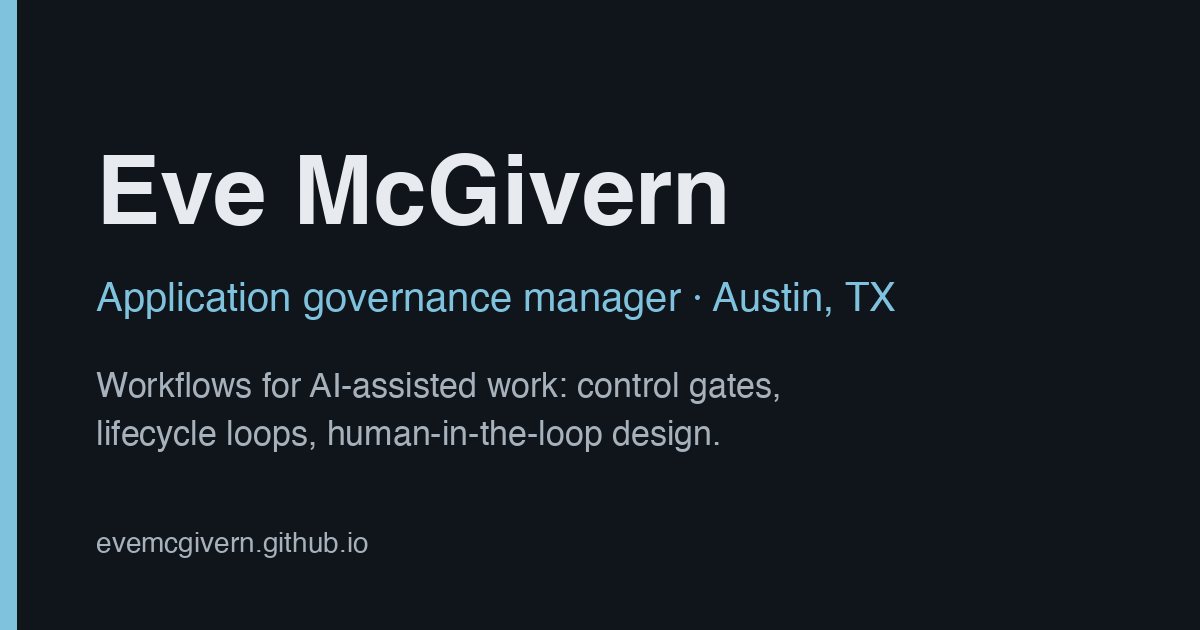
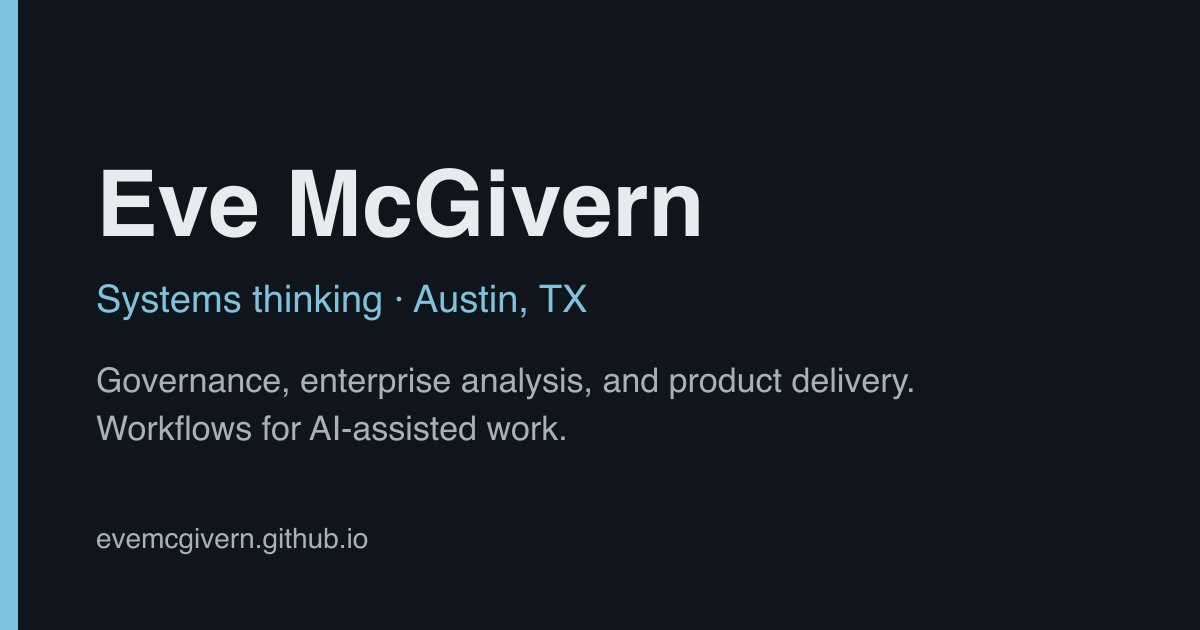
feat(site): broaden profile from LinkedIn
Widen the headline and bio beyond application governance. Add a
What I do section, a LinkedIn link, and updated metadata, llms.txt,
and social image.

Fixes #15

Claude-Session: https://claude.ai/code/session_01XjzbFX8BVBbwU7jJMPUWj5

diff --git a/index.html b/index.html
@@ -3,8 +3,8 @@
 <head>
 <meta charset="utf-8">
 <meta name="viewport" content="width=device-width, initial-scale=1">
-<title>Eve McGivern · Application Governance Manager</title>
-<meta name="description" content="Eve McGivern — application governance manager. Workflows for AI-assisted work: control gates, lifecycle loops, human-in-the-loop design.">
+<title>Eve McGivern · Systems Thinker in Governance, Analysis, and Product</title>
+<meta name="description" content="Eve McGivern: systems thinker with 19 years in regulated financial services and gaming. Application governance, enterprise analysis, product delivery, and AI-assisted workflow design.">
 <meta name="author" content="Eve McGivern">
 <link rel="icon" href="/icon.svg" type="image/svg+xml">
 <link rel="apple-touch-icon" href="/apple-touch-icon.png">
@@ -12,20 +12,20 @@
 <meta property="og:type" content="profile">
 <meta property="og:site_name" content="Eve McGivern">
 <meta property="og:url" content="https://evemcgivern.github.io/">
-<meta property="og:title" content="Eve McGivern · Application Governance Manager">
-<meta property="og:description" content="Workflows for AI-assisted work: control gates, lifecycle loops, human-in-the-loop design.">
+<meta property="og:title" content="Eve McGivern · Systems Thinker in Governance, Analysis, and Product">
+<meta property="og:description" content="Systems thinking across governance, enterprise analysis, and product delivery. Workflows for AI-assisted work.">
 <meta property="og:image" content="https://evemcgivern.github.io/og-image.png">
 <meta property="og:image:width" content="1200">
 <meta property="og:image:height" content="630">
-<meta property="og:image:alt" content="Eve McGivern, application governance manager, Austin, TX. Workflows for AI-assisted work: control gates, lifecycle loops, human-in-the-loop design.">
+<meta property="og:image:alt" content="Eve McGivern, systems thinker, Austin, TX. Governance, enterprise analysis, product delivery, and AI-assisted workflow design.">
 <meta property="og:locale" content="en_US">
 <meta property="profile:first_name" content="Eve">
 <meta property="profile:last_name" content="McGivern">
 <meta name="twitter:card" content="summary_large_image">
-<meta name="twitter:title" content="Eve McGivern · Application Governance Manager">
-<meta name="twitter:description" content="Workflows for AI-assisted work: control gates, lifecycle loops, human-in-the-loop design.">
+<meta name="twitter:title" content="Eve McGivern · Systems Thinker in Governance, Analysis, and Product">
+<meta name="twitter:description" content="Systems thinking across governance, enterprise analysis, and product delivery. Workflows for AI-assisted work.">
 <meta name="twitter:image" content="https://evemcgivern.github.io/og-image.png">
-<meta name="twitter:image:alt" content="Eve McGivern, application governance manager, Austin, TX. Workflows for AI-assisted work: control gates, lifecycle loops, human-in-the-loop design.">
+<meta name="twitter:image:alt" content="Eve McGivern, systems thinker, Austin, TX. Governance, enterprise analysis, product delivery, and AI-assisted workflow design.">
 <script type="application/ld+json">
 {
   "@context": "https://schema.org",
@@ -34,11 +34,18 @@
   "name": "Eve McGivern",
   "url": "https://evemcgivern.github.io/",
   "image": "https://evemcgivern.github.io/og-image.png",
-  "jobTitle": "Application Governance Manager",
-  "worksFor": {
-    "@type": "Organization",
-    "name": "Las Vegas Sands"
-  },
+  "jobTitle": "Manager, Global IT Application Governance; Co-Founder, Product and Technical Strategy",
+  "worksFor": [
+    {
+      "@type": "Organization",
+      "name": "Las Vegas Sands"
+    },
+    {
+      "@type": "Organization",
+      "name": "Stylus Nexus",
+      "url": "https://stylusnexus.github.io"
+    }
+  ],
   "homeLocation": {
     "@type": "Place",
     "address": {
@@ -48,9 +55,17 @@
       "addressCountry": "US"
     }
   },
-  "description": "Application governance manager working on workflows for AI-assisted work: control gates, lifecycle loops, human-in-the-loop design.",
+  "description": "Systems thinker with 19 years in regulated financial services and gaming: application governance, enterprise analysis, product delivery, and AI-assisted workflow design.",
   "knowsAbout": [
+    "Systems thinking",
     "Application governance",
+    "Business systems analysis",
+    "Enterprise architecture",
+    "Conceptual and logical data modeling",
+    "Data lineage",
+    "Product delivery",
+    "SOX control documentation",
+    "Cloud data migration",
     "AI governance",
     "Human-in-the-loop design",
     "Control gates",
@@ -62,8 +77,13 @@
   ],
   "sameAs": [
     "https://github.com/evemcgivern",
+    "https://www.linkedin.com/in/evemcgivern",
     "https://evemcgivern.notion.site/Eve-McGivern-18b0507d1fce80739005ff51f4e0198f"
-  ]
+  ],
+  "alumniOf": {
+    "@type": "CollegeOrUniversity",
+    "name": "The University of Texas at Austin"
+  }
 }
 </script>
 <style>
@@ -321,6 +341,31 @@ h2 {
   text-transform: uppercase;
 }
 
+.focus {
+  display: grid;
+  gap: 0.75rem;
+  margin: 0;
+}
+
+.focus div {
+  padding: 1rem 1.25rem;
+  border-radius: 12px;
+  background: var(--surface);
+  box-shadow: var(--shadow);
+}
+
+.focus dt {
+  margin: 0 0 0.25rem;
+  color: var(--accent);
+  font-weight: 700;
+}
+
+.focus dd {
+  margin: 0;
+  color: var(--muted);
+  text-wrap: pretty;
+}
+
 .links {
   list-style: none;
   margin: 0;
@@ -395,19 +440,32 @@ footer p { margin: 0; text-wrap: pretty; }
     <img class="hero-icon" src="/icon.svg" width="88" height="88" alt="">
     <div>
       <h1>Eve McGivern</h1>
-      <p class="tagline">Application governance manager · Austin, TX</p>
+      <p class="tagline">Systems thinking across governance, analysis, and product delivery · Austin, TX</p>
     </div>
   </header>
 
   <div class="bio">
-    <p>Workflows for AI-assisted work: control gates, lifecycle loops, human-in-the-loop design. Global IT application governance at Las Vegas Sands.</p>
-    <p>Background in development, analysis, and art — most of why I think in systems. Currently building toward formal architecture ownership: data models, lineage, control gates, evaluation harnesses.</p>
+    <p>I lead global IT application governance at Las Vegas Sands, and I co-founded Stylus Nexus, a product studio building data and AI-enabled applications. Behind both is 19 years of business systems analysis and product delivery in regulated financial services and gaming.</p>
+    <p>Systems thinking is the through-line. I map how applications, data, processes, controls, and people affect one another, then turn ambiguity into requirements, decision models, operating workflows, and roadmaps.</p>
+    <p>Outside the day job I design and govern workflows for AI-assisted work, from agent control gates to human-in-the-loop decision points, and I build the workflow as well as specify it. Background in development, analysis, and art — most of why I think in systems. Current focus: formal architecture ownership.</p>
     <p class="meta-line">Pronouns: she/her/hers</p>
   </div>
+
+  <section aria-labelledby="focus-heading">
+    <h2 id="focus-heading">What I do</h2>
+    <dl class="focus">
+      <div><dt>Governance</dt><dd>Application registers, rationalization, control gates, and SOX-compliant documentation across a global estate.</dd></div>
+      <div><dt>Analysis and architecture</dt><dd>Conceptual and logical data models, data lineage across Python, Informatica, and Snowflake, decision models, and process mapping.</dd></div>
+      <div><dt>Product and delivery</dt><dd>Co-founder of Stylus Nexus: product strategy, full-stack builds in Next.js and React, and testing AI models, prompts, and guardrails. Earlier, I led an 8 to 13 person team moving a legacy Oracle compensation platform to AWS and Snowflake.</dd></div>
+      <div><dt>AI-assisted workflows</dt><dd>Agent control gates, lifecycle loops, and human-in-the-loop design, published as open repositories.</dd></div>
+      <div><dt>Writing</dt><dd>I write about independent music for Brainwashed.</dd></div>
+    </dl>
+  </section>
 
   <section aria-labelledby="personal-heading">
     <h2 id="personal-heading">Personal</h2>
     <ul class="links">
+      <li><a href="https://www.linkedin.com/in/evemcgivern">LinkedIn</a></li>
       <li><a href="https://github.com/evemcgivern">GitHub</a></li>
       <li><a href="https://evemcgivern.notion.site/Eve-McGivern-18b0507d1fce80739005ff51f4e0198f">Portfolio</a></li>
       <li><a href="https://www.brainwashed.com">Brainwashed (music writing)</a></li>
